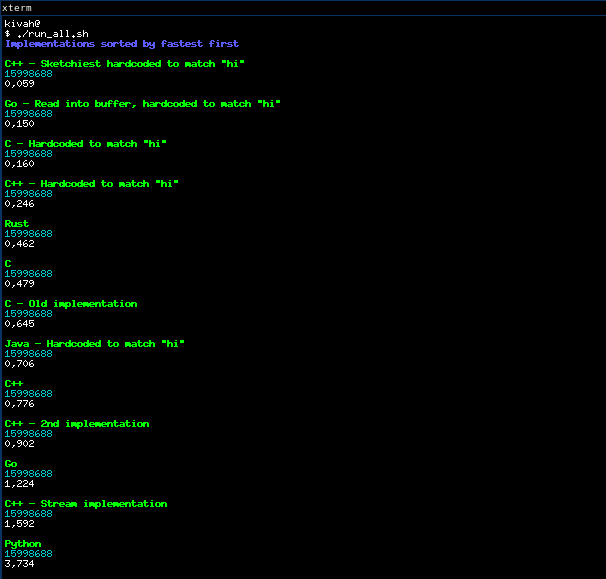
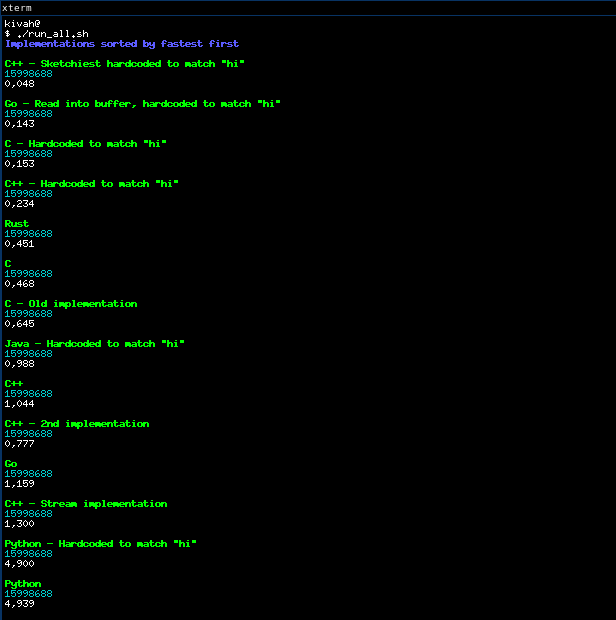
Add new Python implementation

Changed region(s): [[0.0, 0.0, 1.0, 0.9948]]

diff --git a/python/2.py b/python/2.py
@@ -1,0 +1,24 @@
+import sys
+
+def usage():
+	print("Usage: python3 2.py <filename>")
+
+def wordOccurrence(filename):
+	f = open(filename, "r")
+
+	ret = 0
+	for line in f:
+		for char in line:
+			if char == 'h':
+				continue
+
+			if char == 'i':
+				ret += 1
+
+	return ret
+
+if len(sys.argv) < 2:
+	usage()
+	sys.exit(1)
+
+print("\033[36m" + str(wordOccurrence(sys.argv[1])) + "\033[0m")

diff --git a/python/1.py b/python/1.py
@@ -1,7 +1,7 @@
 import sys
 
 def usage():
-	print("Usage: python3 main.py <word> <filename>")
+	print("Usage: python3 1.py <word> <filename>")
 
 def wordOccurrence(word, filename):
 	f = open(filename, "r")
